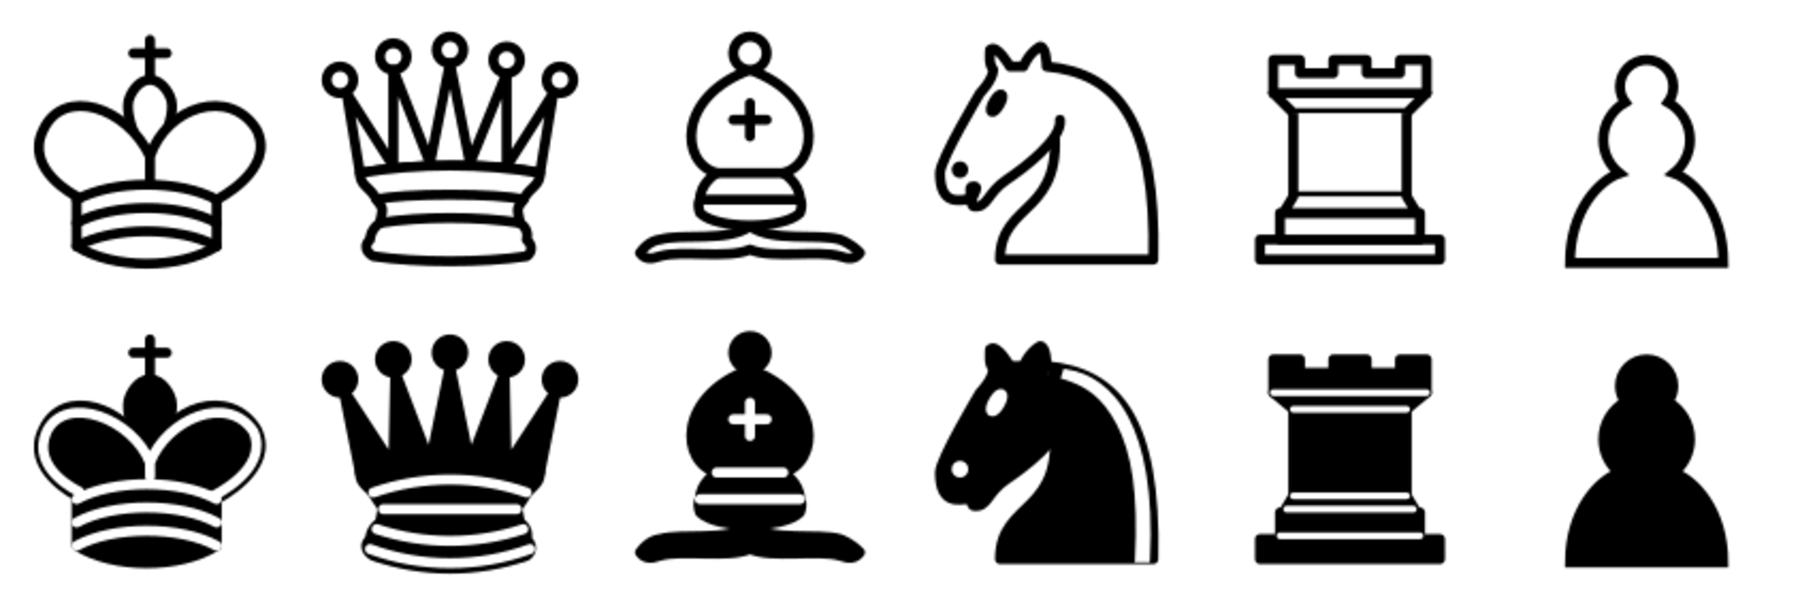
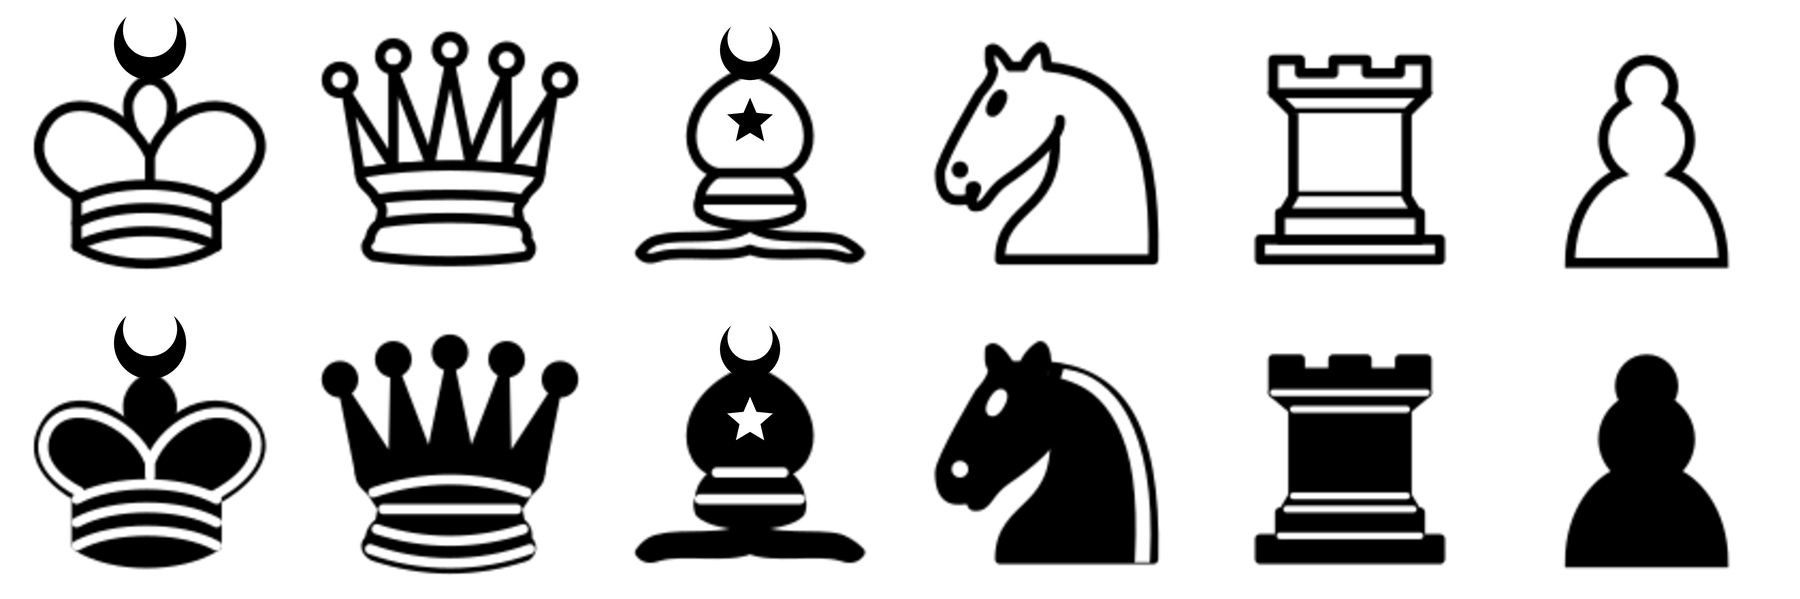
Customize sprites: crescent on king and bishop, star on bishop

diff --git a/README.md b/README.md
@@ -25,7 +25,7 @@ A two-player chess game written in Java with a Swing GUI. Pieces are moved by dr
 - JDK 25 or newer (the entry point uses an instance `main` method without a class declaration).
   JDK 21 to 24 also work if preview features are enabled.
 - An IDE such as IntelliJ IDEA is recommended: open the project and run `src/Main/Main.java`.
-- `src/res/Pieces.png` must be on the classpath. In IntelliJ, mark `src/res` as a *Resources Root*.
+- `Pieces.png` must be on the classpath. In IntelliJ, mark `src/res` as a *Resources Root*.
 
 ## Project structure
 
